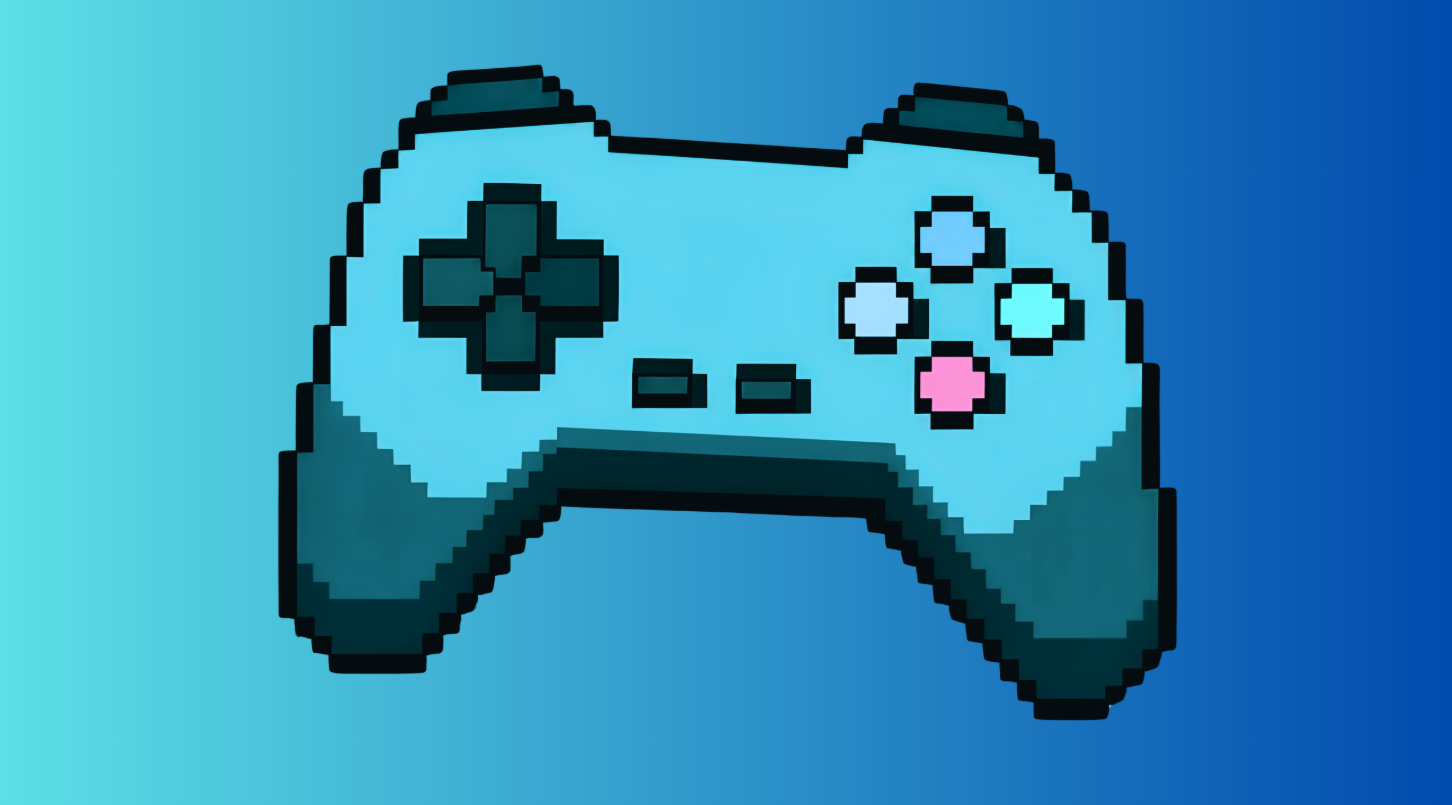
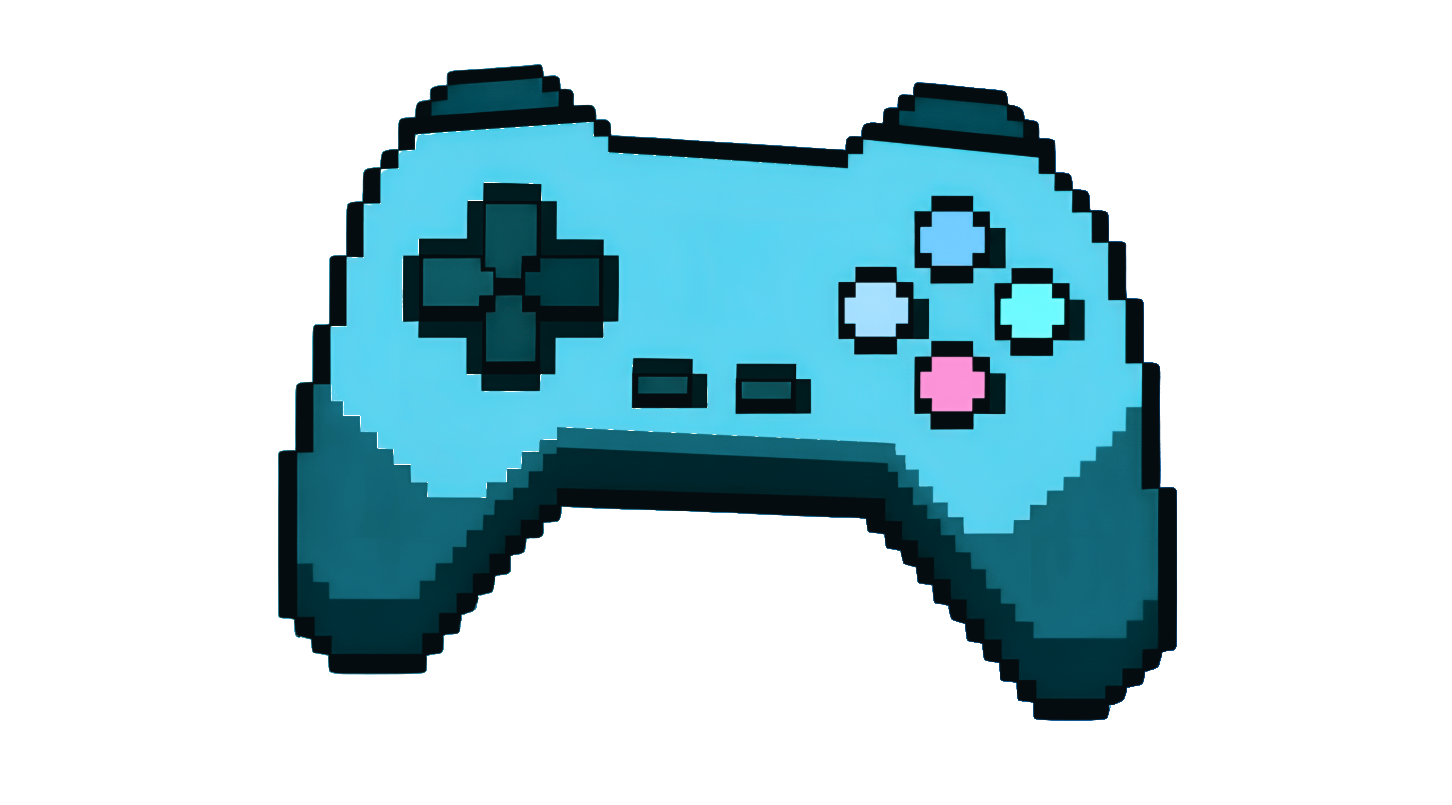
Save uncommitted changes

diff --git a/index.html b/index.html
@@ -173,6 +173,27 @@
         cursor: pointer;
       }
 
+      .home-button {
+        width: 44px;
+        height: 44px;
+        padding: 6px;
+        border-color: transparent;
+        background: transparent;
+      }
+
+      .home-button img {
+        display: block;
+        width: 100%;
+        height: 100%;
+        object-fit: contain;
+      }
+
+      .home-button:hover,
+      .home-button:focus-visible {
+        border-color: #555764;
+        background: #272832;
+      }
+
       .games-layout {
         min-height: 0;
         flex: 1;
@@ -414,8 +435,14 @@
 
     <section id="catalog" class="screen games-screen" hidden>
       <header class="games-header">
-        <button id="home-button" class="header-button" type="button" aria-label="Home">
-          Home
+        <button
+          id="home-button"
+          class="header-button home-button"
+          type="button"
+          aria-label="Home"
+          title="Home"
+        >
+          <img src="Games/assets/home-icon.png" alt="" />
         </button>
         <button
           id="sidebar-toggle"
